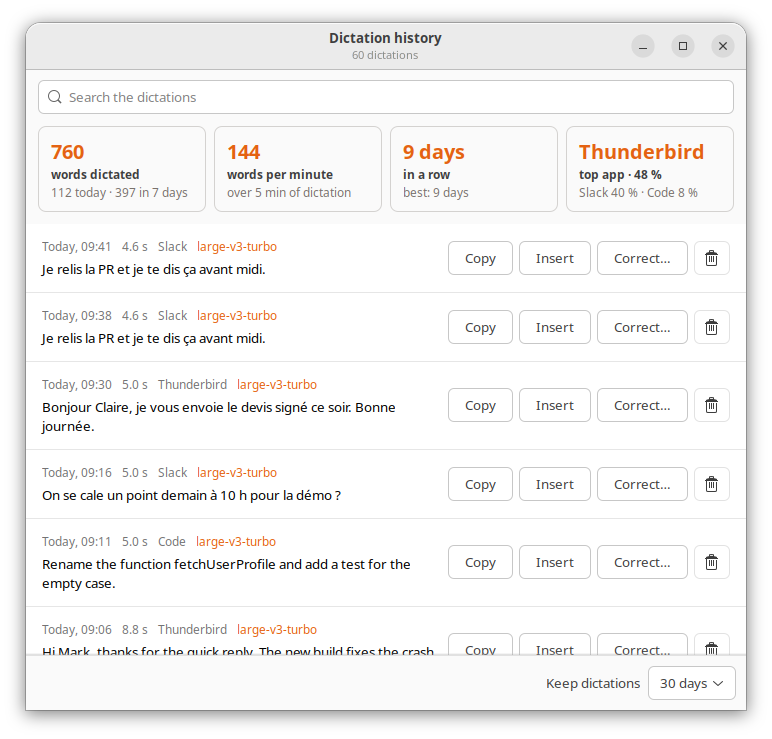
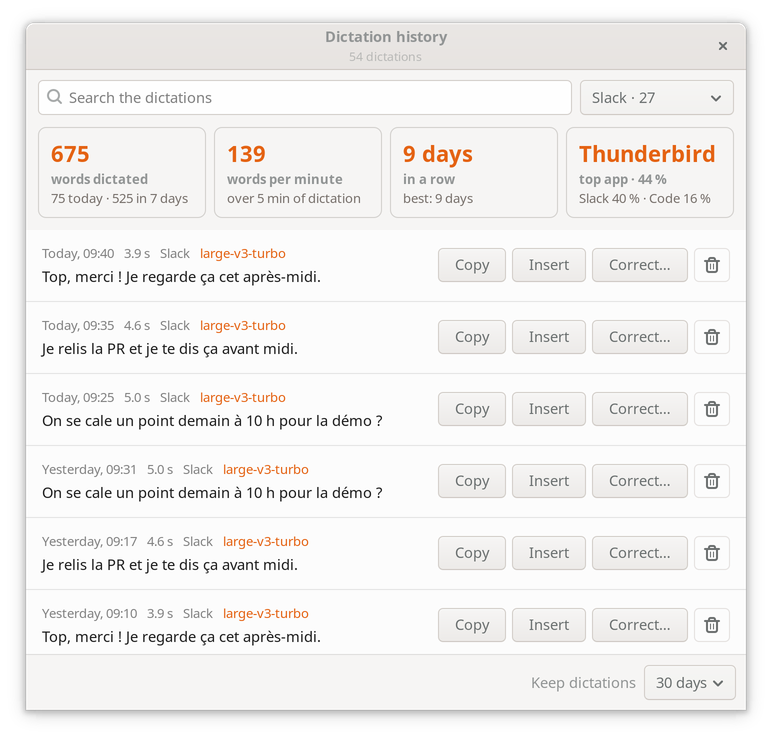
feat: filter the history by the app each dictation went to

diff --git a/docs/index.html b/docs/index.html
@@ -947,6 +947,7 @@
     </p>
     <pre data-copy><span class="p">$ </span>whisper-desk history                  <span class="c"># the 20 latest, numbered from 1 (the latest)</span>
 <span class="p">$ </span>whisper-desk history invoice friday   <span class="c"># search: every word, case and accents ignored</span>
+<span class="p">$ </span>whisper-desk history --app slack      <span class="c"># only the dictations that went to Slack</span>
 <span class="p">$ </span>whisper-desk history --copy 3         <span class="c"># copies dictation 3 to the clipboard</span>
 <span class="p">$ </span>whisper-desk history --correct 3 "…"  <span class="c"># fixes its text, the words corrected join the vocabulary</span>
 <span class="p">$ </span>whisper-desk history --delete 3       <span class="c"># deletes it</span>
@@ -957,9 +958,9 @@
       <div class="shot wide">
         <picture>
           <source srcset="history-window.webp" type="image/webp">
-          <img src="history-window.png" alt="The whisper-desk history window: your words, speed, streak and top app above the dictations to search, copy, insert again, delete" width="680" height="651" loading="lazy">
+          <img src="history-window.png" alt="The whisper-desk history window filtered on Slack: your words, speed, streak and top app above the dictations to search, filter by app, copy, insert again, delete" width="680" height="651" loading="lazy">
         </picture>
-        <span>Your words, speed, streak and top app at a glance, then search, <b>Copy</b>, <b>Insert</b> again where the cursor was, <b>Correct…</b>, delete — and the automatic purge</span>
+        <span>Your words, speed, streak and top app at a glance, then search, filter by app, <b>Copy</b>, <b>Insert</b> again where the cursor was, <b>Correct…</b>, delete — and the automatic purge</span>
       </div>
     </div>
   </div>

diff --git a/src/whisper_desk/history_window.py b/src/whisper_desk/history_window.py
@@ -6,8 +6,9 @@ PyGObject) and nothing else: it knows neither the history file nor the
 daemon. It reads what to show on stdin and says what the user asked for on
 stdout, one JSON object per line:
 
-    stdin   {"entries": [{"id", "date", "duration", "model", "app", "text"}, ...],
+    stdin   {"entries": [{"id", "date", "duration", "model", "app", "app_key", "text"}, ...],
              "stats": [{"value", "label", "detail", "tooltip"}, ...],
+             "apps": [{"key", "name", "dictations"}, ...],
              "keep_days": 30, "hint": "Super+J", "status": "Copied"}
     stdout  {"action": "copy" | "insert" | "delete", "id": 3, "date": "..."}
             {"action": "correct", "id": 3, "date": "...", "text": "...", "learn": true}
@@ -193,6 +194,7 @@ class HistoryWindow(Gtk.Window):
         self.entries: list[dict] = []
         self.hint = "the shortcut"
         self._updating_keep = False
+        self._updating_apps = False
 
         provider = Gtk.CssProvider()
         provider.load_from_data(CSS.encode())
@@ -209,14 +211,17 @@ class HistoryWindow(Gtk.Window):
         layout = Gtk.Box(orientation=Gtk.Orientation.VERTICAL)
         self.add(layout)
 
+        finder = Gtk.Box(spacing=8)
+        finder.set_margin_start(12)
+        finder.set_margin_end(12)
+        finder.set_margin_top(10)
+        finder.set_margin_bottom(10)
+        layout.pack_start(finder, False, False, 0)
         self.search = Gtk.SearchEntry()
         self.search.set_placeholder_text("Search the dictations")
-        self.search.set_margin_start(12)
-        self.search.set_margin_end(12)
-        self.search.set_margin_top(10)
-        self.search.set_margin_bottom(10)
         self.search.connect("search-changed", lambda _entry: self._refilter())
-        layout.pack_start(self.search, False, False, 0)
+        finder.pack_start(self.search, True, True, 0)
+        finder.pack_end(self._app_selector(), False, False, 0)
 
         # Wispr Flow opens on its insights above the history; so does this window.
         self.usage = Gtk.Box(spacing=8, homogeneous=True)
@@ -261,6 +266,35 @@ class HistoryWindow(Gtk.Window):
         self.keep.connect("changed", self._on_keep_changed)
         return self.keep
 
+    def _app_selector(self) -> Gtk.ComboBoxText:
+        # Hidden until a dictation names its app: most Wayland desktops never do.
+        self.app_filter = Gtk.ComboBoxText()
+        self.app_filter.append("", "All apps")
+        self.app_filter.set_active_id("")
+        self.app_filter.set_tooltip_text("Only the dictations that went to this app (Alt+A)")
+        self.app_filter.set_no_show_all(True)
+        self.app_filter.connect("changed", self._on_app_changed)
+        return self.app_filter
+
+    def _on_app_changed(self, _combo: Gtk.ComboBoxText) -> None:
+        if not self._updating_apps:
+            self._refilter()
+
+    def _show_apps(self, apps: list) -> None:
+        """The choices, the one picked kept while its app is still in the history."""
+        picked = self.app_filter.get_active_id() or ""
+        self._updating_apps = True
+        self.app_filter.remove_all()
+        self.app_filter.append("", "All apps")
+        for app in apps:
+            count = app.get("dictations", 0)
+            self.app_filter.append(app["key"], f"{app['name']} · {count}")
+        if not self.app_filter.set_active_id(picked):
+            self.app_filter.set_active_id("")
+        self._updating_apps = False
+        self.app_filter.set_visible(bool(apps))
+        self._refilter()
+
     def _on_keep_changed(self, combo: Gtk.ComboBoxText) -> None:
         if not self._updating_keep and combo.get_active_id() is not None:
             send({"action": "keep_days", "days": int(combo.get_active_id())})
@@ -271,6 +305,9 @@ class HistoryWindow(Gtk.Window):
             row.set_header(Gtk.Separator())
 
     def _visible(self, row: Row) -> bool:
+        app = self.app_filter.get_active_id() or ""
+        if app and row.entry.get("app_key") != app:
+            return False
         words = fold(self.search.get_text()).split()
         return all(word in row.folded for word in words)
 
@@ -279,7 +316,9 @@ class HistoryWindow(Gtk.Window):
         self._refresh_empty()
 
     def _refresh_empty(self) -> None:
-        if self.entries:
+        if self.entries and self.app_filter.get_active_id() and not self.search.get_text():
+            self.empty.set_text("No dictation went to this app.")
+        elif self.entries:
             self.empty.set_text("No dictation matches this search.")
         else:
             self.empty.set_text(f"No dictation yet — press {self.hint} and speak.")
@@ -289,9 +328,17 @@ class HistoryWindow(Gtk.Window):
         if control and event.keyval in (Gdk.KEY_f, Gdk.KEY_F):
             self.search.grab_focus()
             return True
+        alt = event.state & Gdk.ModifierType.MOD1_MASK
+        if alt and event.keyval in (Gdk.KEY_a, Gdk.KEY_A) and self.app_filter.get_visible():
+            self.app_filter.grab_focus()
+            self.app_filter.popup()
+            return True
         if event.keyval == Gdk.KEY_Escape:
+            # One Escape undoes one filter, the search first; the last one closes.
             if self.search.get_text():
                 self.search.set_text("")
+            elif self.app_filter.get_active_id():
+                self.app_filter.set_active_id("")
             else:
                 self.close()
             return True
@@ -314,6 +361,8 @@ class HistoryWindow(Gtk.Window):
             self._refresh_empty()
         if "stats" in message:
             self._show_usage(message["stats"])
+        if "apps" in message:
+            self._show_apps(message["apps"])
         if "keep_days" in message:
             self._updating_keep = True
             if not self.keep.set_active_id(str(message["keep_days"])):

diff --git a/src/whisper_desk/history_proc.py b/src/whisper_desk/history_proc.py
@@ -1,7 +1,7 @@
 """Driving the history window (GTK3, system Python) from the command line.
 
 The window is a view: this side reads and rewrites the history, works out
-the usage figures shown above it, copies,
+the usage figures shown above it and the apps it can be filtered by, copies,
 asks the daemon to type a text again, writes the purge setting, and adds
 the words a correction teaches to the vocabulary or the replacements.
 """
@@ -13,7 +13,7 @@ from pathlib import Path
 from typing import Any, Callable
 
 from . import config as config_module
-from . import history, hotkey, output, stats, vocabulary, window_proc
+from . import focus, history, hotkey, output, stats, vocabulary, window_proc
 
 WINDOW_SCRIPT = Path(__file__).with_name("history_window.py")
 
@@ -33,11 +33,23 @@ class HistoryController:
 
     def snapshot(self, status: str = "") -> dict[str, Any]:
         loaded = history.load()
-        entries = [{"id": index, **asdict(entry)} for index, entry in enumerate(loaded)]
+        # The window has no focus.key: each entry carries the key its app is
+        # filtered by, so that "Slack" and "slack" fall under one choice.
+        entries = [
+            {"id": index, **asdict(entry),
+             "app_key": focus.key(entry.app) if entry.app else ""}
+            for index, entry in enumerate(loaded)
+        ]
+        usage = stats.compute(loaded)
         message: dict[str, Any] = {
             "entries": entries,
             # Worked out again on every answer: a deletion or a purge changes them.
-            "stats": stats.tiles(stats.compute(loaded)),
+            "stats": stats.tiles(usage),
+            # The choices of the app filter, most words first as in the stats.
+            "apps": [
+                {"key": focus.key(app.name), "name": app.name, "dictations": app.dictations}
+                for app in usage.apps
+            ],
             "keep_days": int(self.config["output"]["history_days"]),
             "hint": hotkey.label(hotkey.resolve_binding(self.config)),
         }

diff --git a/tests/test_history.py b/tests/test_history.py
@@ -202,6 +202,14 @@ class SearchTest(unittest.TestCase):
         self.assertTrue(history.matches(entry, "thursday invoice"))
         self.assertFalse(history.matches(entry, "invoice friday"))
 
+    def test_an_app_is_found_however_the_desktop_spelt_it(self):
+        entry = history.Entry(date="2026-09-29T10:00:00", text="hi", app="Google-chrome")
+        for name in ("google chrome", "Google-Chrome", "googlechrome"):
+            self.assertTrue(history.from_app(entry, name), name)
+        self.assertFalse(history.from_app(entry, "chromium"))
+        self.assertFalse(history.from_app(entry, " - "))
+        self.assertFalse(history.from_app(self.entry("no app noted"), "slack"))
+
     def test_the_latest_is_number_one(self):
         entries = [self.entry("old"), self.entry("new")]
         self.assertEqual([(number, entry.text) for number, entry in history.numbered(entries)],
@@ -240,6 +248,20 @@ class CommandTest(HistoryCase):
         _code, out = self.run_cli("resume")
         self.assertIn("Résumé", out)
         self.assertNotIn("pictures", out)
+
+    def test_only_the_dictations_of_an_app(self):
+        _code, out = self.run_cli("--app", "thunderbird")
+        self.assertIn("Résumé", out)
+        self.assertNotIn("pictures", out)
+
+    def test_an_app_and_words_together(self):
+        _code, out = self.run_cli("--app", "Thunderbird", "pictures")
+        self.assertEqual(out.strip(), "No dictation matches.")
+
+    def test_an_app_never_dictated_into(self):
+        code, out = self.run_cli("--app", "Slack")
+        self.assertEqual(code, 0)
+        self.assertEqual(out.strip(), "No dictation matches.")
 
     def test_copy_takes_the_listed_number(self):
         copied: list[str] = []

diff --git a/src/whisper_desk/__main__.py b/src/whisper_desk/__main__.py
@@ -234,12 +234,13 @@ def cmd_history(args: argparse.Namespace) -> int:
     query = " ".join(args.query)
     shown = [
         (number, entry) for number, entry in history.numbered(entries)
-        if not query or history.matches(entry, query)
+        if (not query or history.matches(entry, query))
+        and (args.app is None or history.from_app(entry, args.app))
     ]
     if args.limit > 0:
         shown = shown[: args.limit]
     if not shown:
-        print("No dictation matches." if query else "No dictation yet.")
+        print("No dictation matches." if query or args.app is not None else "No dictation yet.")
         return 0
     width = shutil.get_terminal_size().columns if sys.stdout.isatty() else None
     # The oldest at the top, the latest just above the prompt.
@@ -833,6 +834,10 @@ def build_parser() -> argparse.ArgumentParser:
     history_parser.add_argument("query", nargs="*", help="words to look for (case and accents ignored)")
     history_parser.add_argument(
         "-n", "--limit", type=int, default=20, help="how many to show (0: all; default 20)"
+    )
+    history_parser.add_argument(
+        "--app", metavar="APP",
+        help="only the dictations that went to APP (case, spaces and dashes ignored)",
     )
     history_parser.add_argument("--copy", type=int, metavar="N", help="copies dictation N")
     history_parser.add_argument(

diff --git a/tests/test_history_proc.py b/tests/test_history_proc.py
@@ -52,6 +52,22 @@ class ControllerTest(HistoryCase):
                          ["words dictated", "words per minute", "in a row", "top app · 100 %"])
         self.assertEqual(tiles[0]["value"], "8")
 
+    def test_the_window_can_filter_by_app(self):
+        history.append("see you tomorrow", duration=1.5, model="small", now=NOW, app="slack")
+        history.append("dear Claire", duration=2.0, model="small", now=NOW, app="Thunderbird")
+        snapshot = self.controller.snapshot()
+        # "Slack" and "slack" one choice, under its latest spelling, most words first.
+        self.assertEqual(snapshot["apps"], [
+            {"key": "slack", "name": "slack", "dictations": 2},
+            {"key": "thunderbird", "name": "Thunderbird", "dictations": 1},
+        ])
+        self.assertEqual([entry["app_key"] for entry in snapshot["entries"]],
+                         ["", "slack", "slack", "thunderbird"])
+
+    def test_no_app_noted_no_filter(self):
+        history.delete(history.load()[1])
+        self.assertEqual(self.controller.snapshot()["apps"], [])
+
     def test_a_deletion_changes_the_figures(self):
         reply = self.controller.handle(self.request("delete", 1))
         self.assertEqual(reply["stats"][0]["value"], "3")

diff --git a/src/whisper_desk/history.py b/src/whisper_desk/history.py
@@ -21,6 +21,7 @@ from datetime import datetime, timedelta
 from pathlib import Path
 
 from . import config as config_module
+from . import focus
 
 logger = logging.getLogger("whisper-desk.history")
 
@@ -219,6 +220,12 @@ def matches(entry: Entry, query: str) -> bool:
     """Every word of the query appears in the text, in any order."""
     text = _fold(entry.text)
     return all(word in text for word in _fold(query).split())
+
+
+def from_app(entry: Entry, app: str) -> bool:
+    """The dictation went to `app`: "slack", "Slack" and "slack.exe" alike, as in the stats."""
+    wanted = focus.key(app)
+    return bool(wanted) and bool(entry.app) and focus.key(entry.app) == wanted
 
 
 def numbered(entries: list[Entry]) -> list[tuple[int, Entry]]:

diff --git a/docs/wispr-flow-gap.md b/docs/wispr-flow-gap.md
@@ -32,7 +32,8 @@ users' reviews show its home screen (read on 2026-11-19); "efface tout" for the 
 the tracker's own left-to-do of 2026-11-15 (2026-11-20); style per kind of app,
 [How to setup Flow Styles](https://docs.wisprflow.ai/articles/2368263928-how-to-setup-flow-styles) —
 personal messages, work messages, email, other — and the tracker's own left-to-do of 2026-11-16
-(2026-11-20).
+(2026-11-20); the history filtered by app, the tracker's own left-to-do of 2026-11-18 and
+2026-11-19 (2026-11-21).
 
 **Status**: done · partial · missing · out of scope.
 **Effort**: S (a session) · M (a few sessions) · L (to split into several gaps).
@@ -61,7 +62,7 @@ personal messages, work messages, email, other — and the tracker's own left-to
 | **Styles** — tone adapted to the app (formal in docs, casual in chat) | `style.py`: one style for every app, `style` in `[model]` or **Style** in the settings window — *formal* (as Whisper punctuates it), *casual* (no final full stop), *very casual* (no sentence-opening capitals either) (#42); a style per app, **Style per app** in the settings window or `[app_styles]`, from the app in front at the shortcut (`focus.py`: X11, Sway, Hyprland, macOS, WSL) (#47); Wispr Flow's categories — **Personal messages**, **Work messages**, **Email** in the settings window, `personal_style`, `work_style`, `email_style` — with their usual apps known (in PR). Known apps only, not guessed from the window's content; GNOME and KDE on Wayland only name XWayland apps; a browser is one app whatever its tab; no *Excited* style | partial | medium | M |
 | **Command Mode** — select text, say how to rewrite it | — (would need a local model, e.g. Ollama) | missing | high | L |
 | **Developer syntax** — camelCase, snake_case, CLI commands, file tagging in Cursor | `casing.py`: a name said after its style ("camel case user name" → `userName`, snake, pascal, kebab, constant case) written in it, Whisper's glued and hyphenated forms understood; measured in `bench/casing/` (#28). Not guessed from context without the style said; no CLI commands, no file tagging | partial | medium | M |
-| **History** of dictations | `whisper-desk history` and its window: search, copy, insert again, purge; each dictation names the app it went to (#49) | done | — | — |
+| **History** of dictations | `whisper-desk history` and its window: search, copy, insert again, purge; each dictation names the app it went to (#49); filtered by app, a menu next to the search or `history --app` (in PR) | done | — | — |
 | **Settings** | `whisper-desk settings`: every key of `config.toml`, in eight tabs (Dictation, Microphone, Shortcut and output, Words, Overlay, History, Advanced, Updates), each with its help and default, **Restore defaults** per section, invalid values refused before saving, keyboard only; `tests/test_settings_schema.py` fails when a key has no setting | done | — | — |
 | **Overlay** | X11 overlay: live level, sentence transcribed, states, cancel | done | — | — |
 | **Usage dashboard** — words dictated, speed, streak, top apps | `whisper-desk stats` (`stats.py`): dictations, words in all, today and over 7 days, words per minute, days in a row, worked out from the history (#32); top apps by share of the words, from the app the history now notes (#49); the same figures in four tiles above the history window (#50). Apps only where the desktop names the one in front; no chart over time, no rank among users | partial | low | S |
@@ -440,3 +441,19 @@ personal messages, work messages, email, other — and the tracker's own left-to
   Slack in a tab take the browser's style (Wispr Flow reads the site); GNOME and KDE on
   Wayland only name XWayland apps (as #47). Left to do: the kind of a browser tab, a GNOME
   Shell extension naming the window in front, a kind for documents and code editors.
+- 2026-11-21 — **History filtered by app** (in PR, an interface day): the left-to-do of #49 and #50 —
+  "the history searchable by app". A menu now sits next to the search field of the history
+  window: **All apps**, then each app the history names, most words first as in the stats, with
+  its number of dictations (*Slack · 27*). Picking one keeps only that app's dictations; the
+  search works within it; `Alt+A` opens the menu, `Escape` clears the search, then the app,
+  then closes the window. The venv side sends the choices and, on each dictation, the key its
+  app is compared by (`focus.key`: *Slack*, *slack*, *slack.exe* one app), so the window, on the
+  system Python, compares nothing itself; the choice picked holds across a correction or a
+  deletion while its app is still in the history. Hidden while no dictation names an app.
+  `whisper-desk history --app NAME` does the same on the command line, with or without words.
+  No new key in `config.toml`. A feature, no quality measure: 6 new tests (the app compared as
+  the stats do, the window's choices and keys, the command line); before/after screenshots of
+  the window (the new one, filtered on Slack, in `docs/history-window.png`). Differences with
+  Wispr Flow: none named in its help center for the history; the figures above the list stay
+  those of every app. Left to do: a chart over time, the tiles of one app when it is picked, a
+  GNOME Shell extension naming the window in front.

diff --git a/README.md b/README.md
@@ -621,6 +621,7 @@ desktop does not say — a native window under GNOME or KDE on Wayland — none 
 ```sh
 whisper-desk history                  # the 20 latest, numbered from 1 (the latest)
 whisper-desk history invoice friday   # search: every word, case and accents ignored
+whisper-desk history --app slack      # only the dictations that went to Slack
 whisper-desk history -n 0             # all of them
 whisper-desk history --copy 3         # copies dictation 3 to the clipboard
 whisper-desk history --correct 3 "Le devis d'Animalink est parti."   # fixes its text
@@ -631,15 +632,17 @@ whisper-desk history --window         # the window below
 ```
 
 <p align="center">
-  <img src="docs/history-window.png" alt="The history window: words, speed, streak and top app above the dictations to search, copy, insert again, delete" width="560">
+  <img src="docs/history-window.png" alt="The history window filtered on Slack: words, speed, streak and top app above the dictations to search, filter by app, copy, insert again, delete" width="560">
 </p>
 
 At the top, four figures sum up your use, as `whisper-desk stats` does (see *Statistics*):
 the words dictated (today and over 7 days), your words per minute, the days in a row, and
 the app you dictate into most with the next two; hover one for what it counts. They are
 worked out again after each correction or deletion, and stay hidden while the history is
-empty. Below them, the window lists the dictations newest first, with a search field (`Ctrl+F`), and for
-each one **Copy**, **Insert** — the window closes and the daemon types the text where
+empty. Below them, the window lists the dictations newest first, with a search field (`Ctrl+F`)
+and, once a dictation names its app, a menu that keeps only those of one app (`Alt+A`) —
+*Slack · 27* —, the search working within it; `Escape` clears the search, then the app.
+For each one **Copy**, **Insert** — the window closes and the daemon types the text where
 your cursor was —, **Correct…** and a bin that asks for a second click. At the bottom,
 *Keep dictations* sets the automatic purge. It needs GTK3 for the system Python, like the
 overlay; without it, the command line does the same.

diff --git a/CHANGELOG.md b/CHANGELOG.md
@@ -407,6 +407,15 @@
 
 ### Changed
 
+- **The history filtered by app** (Wispr Flow's history, searched by where you dictated): a
+  menu next to the search field of the history window — **All apps**, then each app with
+  its number of dictations, *"Slack · 27"* — keeps only the dictations that went to that
+  app, and works with the search (*"devis"* in *Thunderbird*). `Alt+A` opens it, `Escape`
+  undoes the search first, then the app. `whisper-desk history --app slack` does the same
+  on the command line; *"Slack"*, *"slack"* and *"slack.exe"* are one app, as in the stats.
+  The menu stays hidden until a dictation names its app (a native window under GNOME or KDE
+  on Wayland names none). The screenshot (`docs/history-window.png`) shows it. No new
+  setting.
 - **"Efface tout" / "scratch all that" starts the dictation over** (Wispr Flow's
   backtrack, the whole text taken back): said as a sentence of its own, it erases every
   sentence typed since the shortcut, with backspaces in one go, and the dictation goes on —
